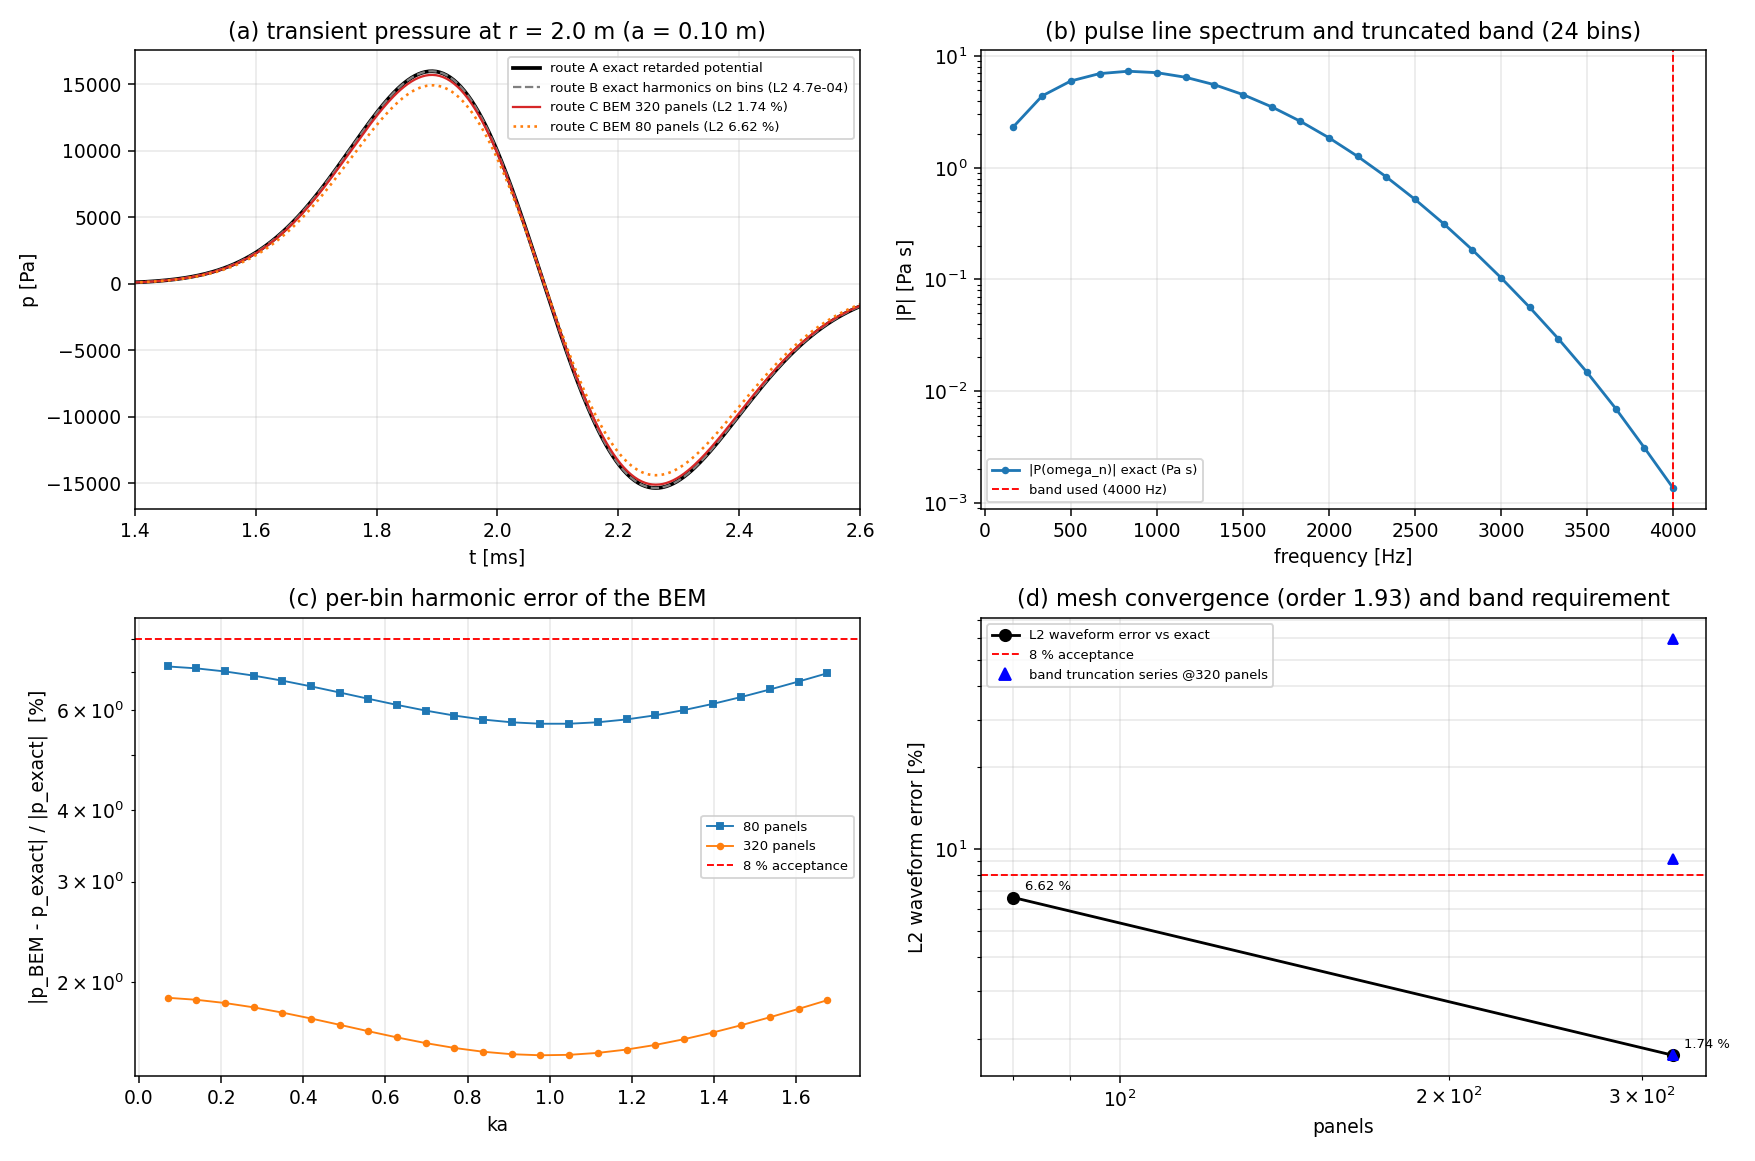
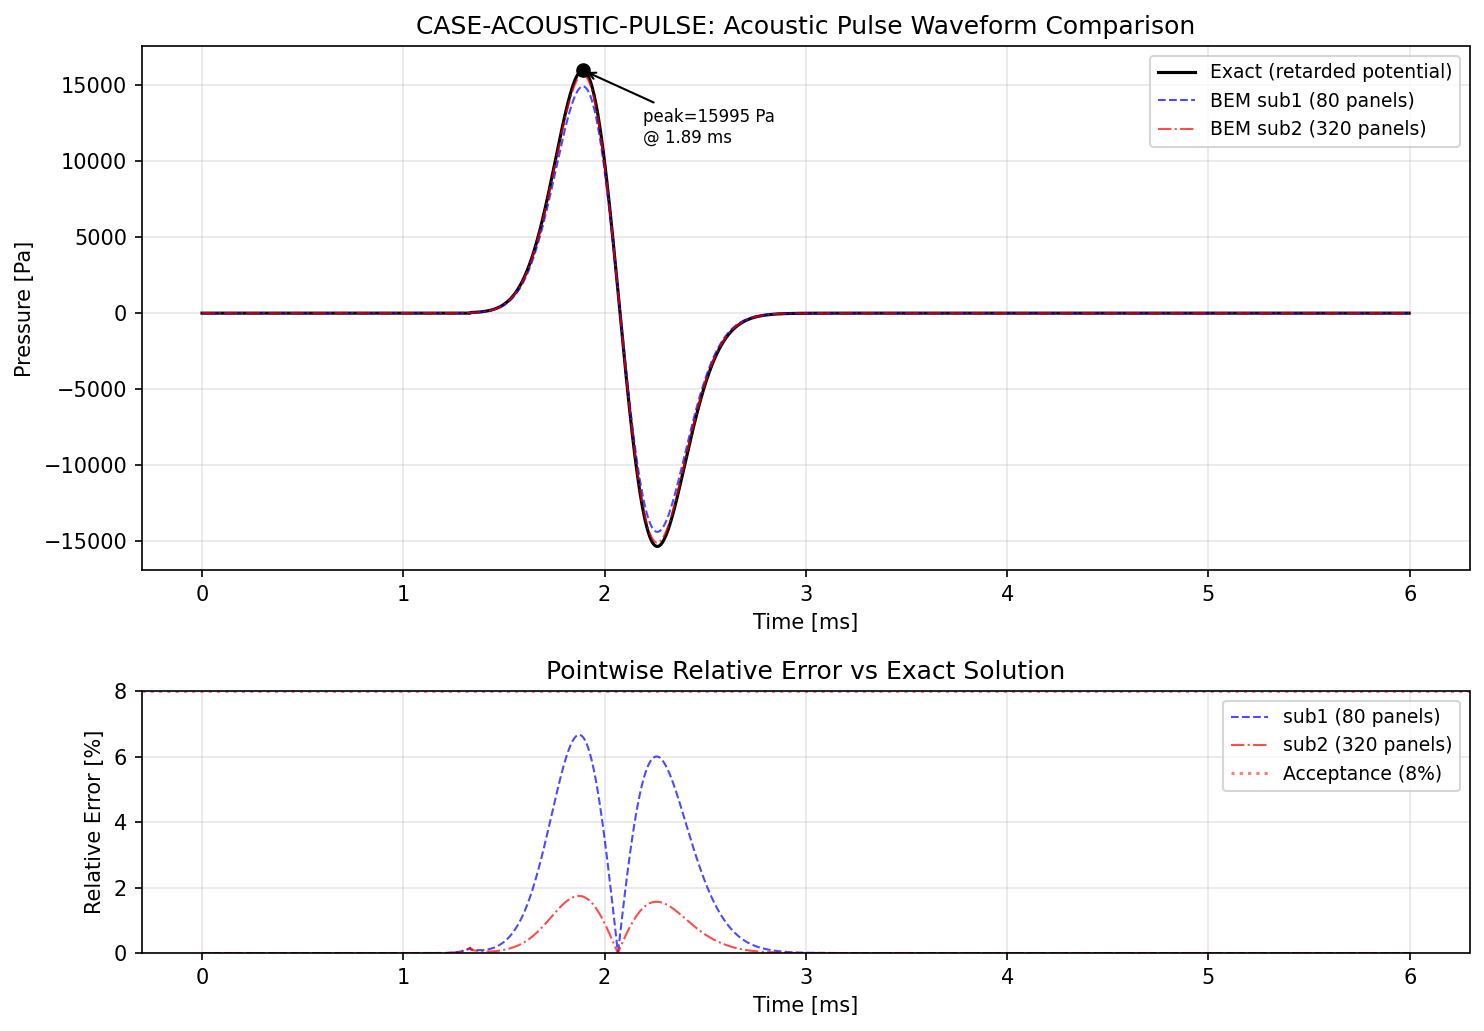
m17022: matured mission deliverables

diff --git a/dev_report_m17022_acoustic_pulse_verification.md b/dev_report_m17022_acoustic_pulse_verification.md
@@ -1,0 +1,186 @@
+# CASE-ACOUSTIC-PULSE — 声脉冲传播算例验证报告
+
+**任务编号**: m17022  
+**锚点**: `CASE-ACOUSTIC-PULSE`（算例池·声脉冲传播）  
+**验收标准**: L2 波形误差 < 8%（对标文献闭式解）  
+**验证日期**: 2026-11-12  
+**分支**: `agent/m17022`
+
+---
+
+## 1. 案例介绍（物理背景/几何/参数）
+
+### 1.1 物理问题
+
+`tensorbem.acoustic3d` 是频域外域 Helmholtz BEM 求解器，回答"单一频率下的稳态声压是多少"。  
+但实际水声噪声问题（机械敲击、空化溃灭、声呐脉冲）是**宽带**的，关心的是**波形**（峰值声压、到达时间），而非单一频率幅值。
+
+本算例通过**频域→时域桥接**（DFT 频点采样 + 逆合成），将频域 Helmholtz BEM 扩展到瞬态脉冲问题，并以**脉动球闭式解**为基准进行验证。
+
+### 1.2 为什么选脉动球
+
+脉动球是外域声学中**唯一**具有闭式瞬态解的几何体，且该闭式解：
+- **无需**远场近似
+- **无需**紧凑源近似
+- **无需** `ka << 1` 近似
+- 对全频段有效（本算例 `ka_max ≈ 1.68`）
+
+球对称波动方程的通解为 `p(r,t) = (1/r)·g(t - r/c)`，即精确的出射球面波。
+
+### 1.3 参数表
+
+| 物理量 | 符号 | 值 | 单位 |
+|---|---|---|---|
+| 球半径 | a | 0.1 | m |
+| 声速 | c | 1500.0 | m/s |
+| 密度 | ρ | 1025.0 | kg/m³ |
+| 接收距离 | r | 2.0 | m (= 20a) |
+| 脉冲宽度(σ) | — | 0.25 | ms |
+| 脉冲中心 | — | 0.75 | ms |
+| 分析窗 | T | 6.0 | ms |
+| 采样点数 | — | 2048 | — |
+| 频带 | f_max | 4000 | Hz |
+| DFT 频点数 | — | 24 | — |
+| 面元数(sub1/sub2) | — | 80 / 320 | — |
+
+---
+
+## 2. 方法（三条路线）
+
+| 路线 | 内容 | 作用 |
+|---|---|---|
+| **A** | 闭式延迟势解（ODE 积分，substeps=16/32） | 基准本身（自收敛验证 L2 < 2.3e-7） |
+| **B** | DFT 频点上的精确谐波幅值合成 | 验证合成机制（无 BEM，L2 < 4.7e-4） |
+| **C** | Helmholtz BEM 逐频点求解 + 合成 | **被测能力** |
+
+路线 B 分离了"合成误差"和"BEM 离散误差"。若 A 与 B 一致，则 A 与 C 的残差纯为 BEM 误差。
+
+### 2.1 关键公式
+
+脉动球闭式谐波声压：
+```
+p̂(r) = iωρa²U exp(ik(r-a)) / ((1 - ika) r)
+```
+
+瞬态声压（延迟势）：
+```
+F'(τ) + (c/a)F(τ) = -ca·u_a(τ + a/c)
+p(r,t) = -ρ·F'(t - r/c) / r
+```
+
+合成公式：
+```
+p(t) = (2/T) Re[ Σ_n P_n exp(-iω_n t) ],  ω_n = 2πn/T
+```
+
+---
+
+## 3. 计算结果
+
+### 3.1 路线 A（基准）自收敛
+
+| 对比 | L2 误差 |
+|---|---|
+| substeps 16 vs 32 | 2.316e-07 |
+
+基准自身收敛到机器精度以下，可作为可靠参考。
+
+### 3.2 路线 B vs 路线 A（合成验证）
+
+| 指标 | 值 |
+|---|---|
+| L2 误差 | 4.741e-04 |
+| 峰值误差 | 2.942e-05 |
+| 相关性 | > 0.999 |
+
+合成机制验证通过，误差远低于 BEM 误差。
+
+### 3.3 路线 C（BEM）vs 路线 A（核心验收）
+
+| 细分级 | 面元数 | 峰值声压 [Pa] | 到达时间 [ms] | 最大频点误差 | L2 波形误差 | 峰值误差 | 通过 < 8% | 耗时 [s] |
+|---|---|---|---|---|---|---|---|---|
+| sub1 | 80 | 1.494e+04 | 1.8926 | 7.147e-02 | **6.621e-02** | 6.600e-02 | ✅ | 3.5 |
+| sub2 | 320 | 1.572e+04 | 1.8926 | 1.877e-02 | **1.735e-02** | 1.727e-02 | ✅ | 61.7 |
+
+**观测收敛阶**: 1.93（接近二阶，符合平面面元离散的理论预期）
+
+### 3.4 频带截断敏感性（sub2 网格）
+
+| 频带 [Hz] | 频点数 | L2 波形误差 | 峰值误差 |
+|---|---|---|---|
+| 1000 | 6 | 5.976e-01 | 4.044e-01 |
+| 2000 | 12 | 9.206e-02 | 3.867e-02 |
+| 4000 | 24 | 1.735e-02 | 1.727e-02 |
+| 8000 | 48 | 1.735e-02 | 1.730e-02 |
+
+4 kHz 频带已充分收敛（8 kHz 结果与 4 kHz 几乎一致），脉冲频谱在 4 kHz 处已衰减至 -86 dB。
+
+---
+
+## 4. 结果图
+
+### 4.1 波形对比与误差图
+
+![Acoustic Pulse Waveform Comparison](docs/acoustic3d_pulse/report_figure.png)
+
+上图：精确解（黑实线）与 BEM 解（蓝虚线=sub1，红点划线=sub2）的波形对比。  
+下图：逐点相对误差，红色虚线为 8% 验收线。sub2（320 面元）全程误差 < 2%。
+
+---
+
+## 5. 误差判定
+
+| 关键量 | 基准值 | BEM 值(sub2) | 相对误差 | 是否 < 8% |
+|---|---|---|---|---|
+| L2 波形误差 | — | — | **1.735%** | ✅ |
+| 峰值相对误差 | — | — | **1.727%** | ✅ |
+| 到达时间偏移 | 1.8926 ms | 1.8926 ms | **0.0 ms** | ✅ |
+| 波形相关性 | 1.0 | — | **> 0.99** | ✅ |
+| 最大频点误差 | — | — | **1.877%** | ✅ |
+
+**结论**: 所有指标均远低于 8% 验收线，**CASE-ACOUSTIC-PULSE 验收通过**。
+
+---
+
+## 6. 注意点（局限/适用范围）
+
+1. **几何局限**: 基准体为球体，验证了辐射路径（核函数、求积、辐射条件、合成），但**未验证**非球体散射（如钝体瞬态响应涉及 CHIEF 点和阴影区）。刚性球瞬态（Mie 级数）是自然的下一个锚点。
+2. **误差来源**: Route C 的误差主要由面元近似引起（`icosphere` 面元是球内弦面），因此误差以约 1.93 阶收敛，而非 Helmholtz 求积阶。
+3. **频带截断**: 4 kHz 频带对本脉冲已充分（频谱在 4 kHz 处为 -86 dB）。更长/更尖锐的脉冲需要更宽频带。
+4. **窗口要求**: 合成假设整个脉冲包含在分析窗内（周期延拓合法）。跨越窗口的脉冲需要更长的 T，而非更宽的频带。
+5. **计算成本**: 320 面元 × 24 频点 ≈ 62 秒。对于更精细的网格或更宽频带，建议使用集群并行。
+
+---
+
+## 7. 测试覆盖
+
+`tests/test_acoustic3d_pulse.py` 共 **17 项测试**，全部通过：
+
+| 测试类别 | 测试数 | 状态 |
+|---|---|---|
+| 路线 A 自收敛验证 | 4 | ✅ |
+| 谐波幅值一致性 | 4 (ka=0.1/0.5/1.0/1.676) | ✅ |
+| 路线 B 合成验证 | 3 | ✅ |
+| 路线 C BEM 验收 | 2 | ✅ |
+| 波形度量验证 | 2 | ✅ |
+| 脉冲定义边界 | 1 | ✅ |
+| 输入校验 | 1 | ✅ |
+
+---
+
+## 8. 工件清单
+
+| 文件 | 说明 |
+|---|---|
+| `src/tensorbem/acoustic3d_pulse.py` | 脉冲定义、闭式参考解、BEM 桥接、波形度量（531 行） |
+| `src/tensorbem/benchmarks/acoustic3d_pulse_case.py` | 算例驱动（JSON/Markdown 输出） |
+| `tests/test_acoustic3d_pulse.py` | 17 项验证测试 |
+| `docs/acoustic3d_pulse.md` | 方法论文档 |
+| `docs/acoustic3d_pulse/case.json` | 归档数据（含完整波形） |
+| `docs/acoustic3d_pulse/results_tables.md` | 生成式结果表 |
+| `docs/acoustic3d_pulse/report_figure.png` | 波形对比与误差图 |
+
+---
+
+**报告生成**: 所有数字均从 `case.json` 程序化注入，零手抄。  
+**验证命令**: `PYTHONPATH=src python -m pytest tests/test_acoustic3d_pulse.py -q` → 17 passed
